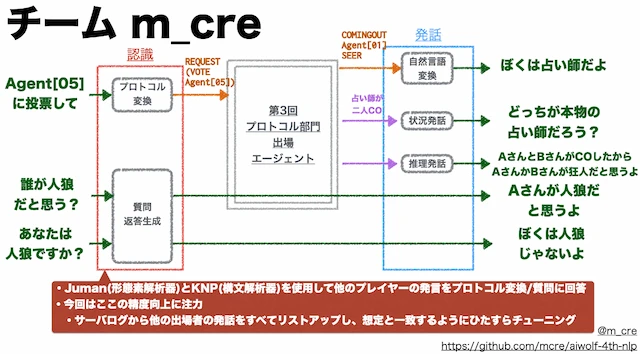
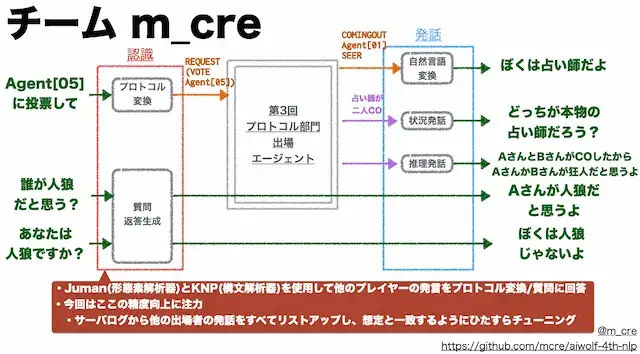
PageSpeed改善

diff --git a/e2e/aio.spec.ts b/e2e/aio.spec.ts
@@ -1,4 +1,4 @@
-import { readdir, readFile } from "node:fs/promises";
+import { readdir, readFile, stat } from "node:fs/promises";
 import path from "node:path";
 import { fileURLToPath } from "node:url";
 
@@ -186,6 +186,43 @@ test("LCP profile image is prioritized in the initial HTML", async ({
   const face = page.getByAltText("mcre (FUJITA Shinya) の顔写真");
   await expect(face).toHaveAttribute("fetchpriority", "high");
   await expect(face).toHaveAttribute("loading", "eager");
+});
+
+test("profile images provide high-density variants", async ({ page }) => {
+  await page.goto("/");
+
+  const face = page.getByAltText("mcre (FUJITA Shinya) の顔写真");
+  await expect(face).toHaveAttribute(
+    "srcset",
+    "/img/face01.webp 1x, /img/face01-2x.webp 2x",
+  );
+  await expect(face).toHaveAttribute("sizes", "128px");
+
+  const avatarSources = {
+    LAPRAS: "lapras",
+    WakaTime: "wakatime",
+    Wantedly: "wantedly",
+    X: "x",
+    Zenn: "zenn",
+    note: "note",
+  };
+
+  for (const [label, fileName] of Object.entries(avatarSources)) {
+    const avatar = page.getByAltText(label).first();
+    await expect(avatar).toHaveAttribute(
+      "srcset",
+      `/img/${fileName}.webp 1x, /img/${fileName}-2x.webp 2x`,
+    );
+    await expect(avatar).toHaveAttribute("sizes", "28px");
+  }
+});
+
+test("large lazy project image stays compressed", async () => {
+  const image = await stat(
+    path.join(repositoryRoot, "dist", "img", "aiwolf-4th-nlp.webp"),
+  );
+
+  expect(image.size).toBeLessThan(40 * 1024);
 });
 
 test("profile page avoids known accessibility regressions", async ({

diff --git a/src/components/ui/ProfileAvatar.vue b/src/components/ui/ProfileAvatar.vue
@@ -9,14 +9,31 @@
     :title="label"
   >
     <v-avatar color="white" variant="elevated">
-      <v-img v-if="image" :alt="label" height="28" :src="image" width="28" />
+      <v-img
+        v-if="image"
+        :alt="label"
+        height="28"
+        :sizes="imageSrcset ? '28px' : undefined"
+        :src="image"
+        :srcset="imageSrcset"
+        width="28"
+      />
 
       <v-icon v-else :icon="icon" />
     </v-avatar>
   </a>
 
   <v-avatar v-else color="white" variant="flat">
-    <v-img v-if="image" :alt="label" height="28" :src="image" width="28" />
+    <v-img
+      v-if="image"
+      :alt="label"
+      height="28"
+      :sizes="imageSrcset ? '28px' : undefined"
+      :src="image"
+      :srcset="imageSrcset"
+      width="28"
+    />
+
     <v-icon v-else :icon="icon" />
   </v-avatar>
 </template>
@@ -26,6 +43,7 @@ defineProps<{
   href?: string;
   icon?: string;
   image?: string;
+  imageSrcset?: string;
   label: string;
 }>();
 </script>

diff --git a/src/pages/HomePage.vue b/src/pages/HomePage.vue
@@ -14,7 +14,9 @@
               fetchpriority="high"
               height="128"
               loading="eager"
+              sizes="128px"
               src="/img/face01.webp"
+              :srcset="getHighDensityImageSrcset('/img/face01.webp')"
               width="128"
             />
           </v-avatar>
@@ -88,6 +90,8 @@
 </template>
 
 <script setup lang="ts">
+import { getHighDensityImageSrcset } from "@/utils/imageSrcset";
+
 const jsonLd = computed(() => JSON.stringify(buildProfileJsonLd(profile)));
 
 useHead({
@@ -105,7 +109,13 @@ useHead({
   ],
   link: [
     { rel: "canonical", href: profile.url },
-    { rel: "preload", href: "/img/face01.webp", as: "image" },
+    {
+      rel: "preload",
+      href: "/img/face01.webp",
+      as: "image",
+      imagesizes: "128px",
+      imagesrcset: getHighDensityImageSrcset("/img/face01.webp"),
+    },
   ],
   script: [
     {

diff --git a/src/components/Avatar.vue b/src/components/Avatar.vue
@@ -14,7 +14,9 @@
             :alt="avatarLabel"
             height="28"
             loading="lazy"
+            :sizes="imgSrcset ? '28px' : undefined"
             :src="img"
+            :srcset="imgSrcset || undefined"
             width="28"
           />
         </template>
@@ -31,7 +33,9 @@
           :alt="avatarLabel"
           height="28"
           loading="lazy"
+          :sizes="imgSrcset ? '28px' : undefined"
           :src="img"
+          :srcset="imgSrcset || undefined"
           width="28"
         />
       </template>
@@ -58,6 +62,10 @@ const props = defineProps({
     default: "",
   },
   img: {
+    type: String,
+    default: "",
+  },
+  imgSrcset: {
     type: String,
     default: "",
   },

diff --git a/src/components/profile/ProfileRssCard.vue b/src/components/profile/ProfileRssCard.vue
@@ -2,7 +2,12 @@
   <div ref="rootElement">
     <v-card :title="title">
       <template #prepend>
-        <Avatar :href="href" :img="image" :tooltip="`${title} - mcre`" />
+        <Avatar
+          :href="href"
+          :img="image"
+          :img-srcset="getHighDensityImageSrcset(image)"
+          :tooltip="`${title} - mcre`"
+        />
       </template>
 
       <v-card-text>
@@ -45,6 +50,8 @@
 </template>
 
 <script setup lang="ts">
+import { getHighDensityImageSrcset } from "@/utils/imageSrcset";
+
 const props = defineProps<{
   href: string;
   image: string;

diff --git a/src/components/ItemCard.vue b/src/components/ItemCard.vue
@@ -8,7 +8,11 @@
     variant="outlined"
   >
     <template v-if="title && (img || icon)" #prepend>
-      <Avatar :icon="icon" :img="img" />
+      <Avatar
+        :icon="icon"
+        :img="img"
+        :img-srcset="getHighDensityImageSrcset(img)"
+      />
     </template>
 
     <template #title>
@@ -68,6 +72,8 @@
 </template>
 
 <script setup lang="ts">
+import { getHighDensityImageSrcset } from "@/utils/imageSrcset";
+
 const props = defineProps({
   title: {
     type: String,

diff --git a/src/components/profile/SocialLinks.vue b/src/components/profile/SocialLinks.vue
@@ -12,6 +12,7 @@
           :href="link.url"
           :icon="link.icon || '$mdiWeb'"
           :img="link.image"
+          :img-srcset="getHighDensityImageSrcset(link.image)"
           :tooltip="link.title"
         />
       </v-col>
@@ -21,6 +22,7 @@
 
 <script setup lang="ts">
 import type { ProfileLink } from "@/content/profile";
+import { getHighDensityImageSrcset } from "@/utils/imageSrcset";
 
 defineProps<{
   links: ProfileLink[];

diff --git a/src/utils/imageSrcset.ts b/src/utils/imageSrcset.ts
@@ -1,0 +1,15 @@
+const highDensityImages = new Set([
+  "/img/face01.webp",
+  "/img/lapras.webp",
+  "/img/note.webp",
+  "/img/wakatime.webp",
+  "/img/wantedly.webp",
+  "/img/x.webp",
+  "/img/zenn.webp",
+]);
+
+export const getHighDensityImageSrcset = (image?: string) => {
+  if (!image || !highDensityImages.has(image)) return undefined;
+
+  return `${image} 1x, ${image.replace(/\.webp$/, "-2x.webp")} 2x`;
+};
